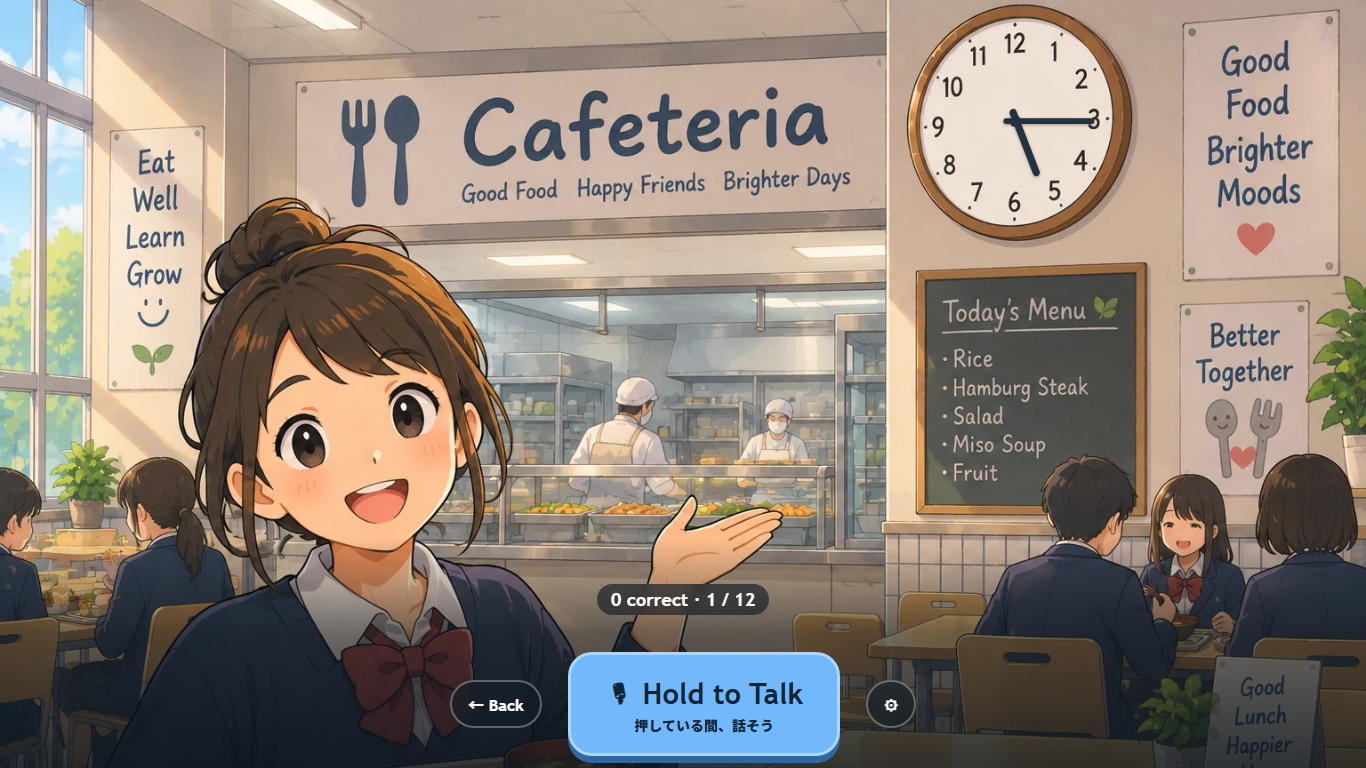
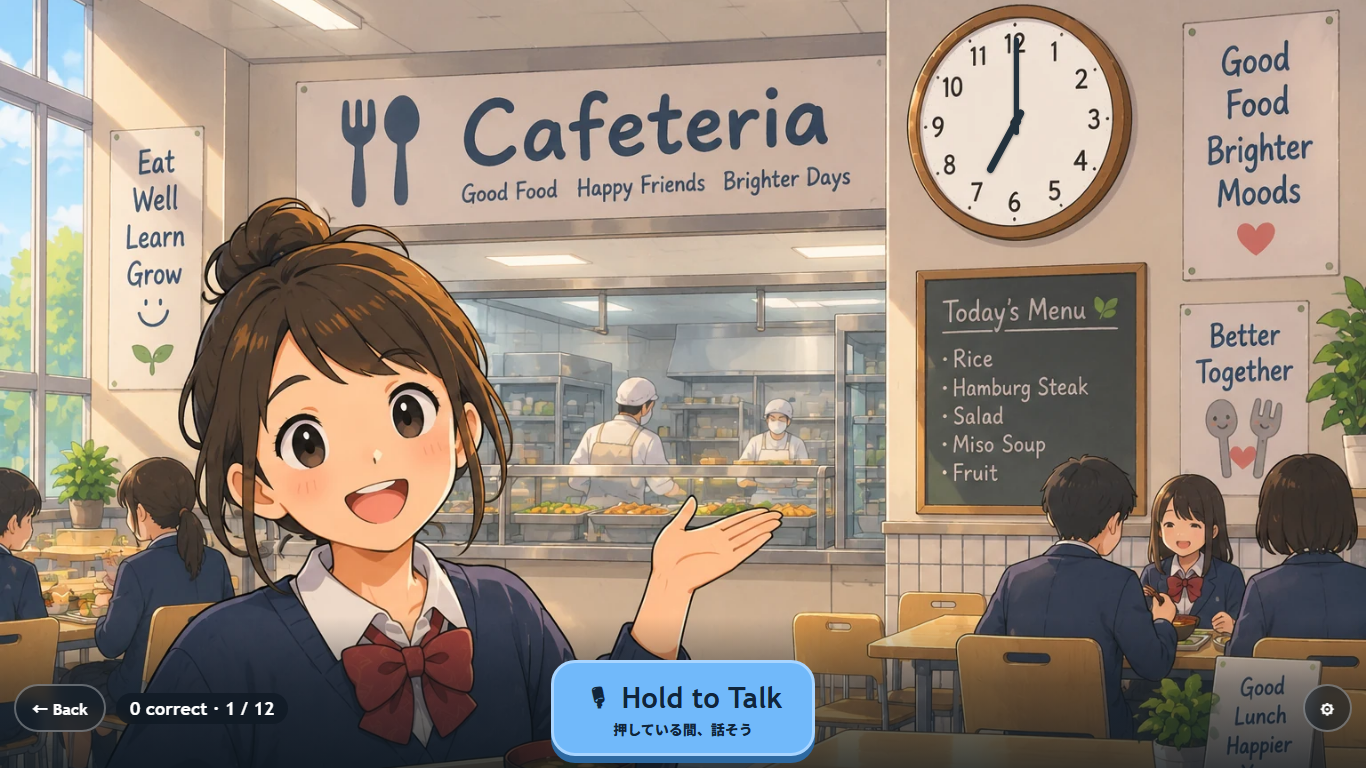
Shrink the floating dock so the picture dominates
The dock had grown to 230px, 30% of a 768px screen and up to 46% on a short
window, which made the artwork read as a thin strip under a heavy bar. It is
now one slim row: Back and the round counter share the left, Hold to Talk is
centred, Settings sits right, feedback above. 230px down to ~150px, and the
short-landscape rule no longer adds padding larger than the base.

Also fixes a real regression from the previous commit: Back and Settings had
been placed inside #speech-controls, which _useTypedFallback() hides wholesale,
so both buttons vanished for anyone without a working microphone. They now sit
outside it and survive the fallback.

Changed region(s): [[0.0, 0.7188, 1.0, 1.0], [0.7072, 0.0625, 0.7994, 0.2188]]

diff --git a/styles/main.css b/styles/main.css
@@ -173,6 +173,9 @@ h1, h2 { margin: 0; font-size: clamp(36px, 6vw, 68px); line-height: 1; }
 /* Floats on the picture. A gradient scrim rather than a solid band keeps the
    artwork running to the bottom edge while white text stays readable over
    whatever the scene happens to be. */
+/* Kept deliberately shallow. It floats ON the artwork, so every pixel it takes
+   is a pixel of picture hidden — one row of controls, a feedback line, and
+   nothing else. */
 .answer-dock {
   position: absolute;
   z-index: 5;
@@ -181,37 +184,41 @@ h1, h2 { margin: 0; font-size: clamp(36px, 6vw, 68px); line-height: 1; }
   left: 0;
   display: grid;
   justify-items: center;
-  gap: 4px;
-  padding: 46px 16px max(12px, env(safe-area-inset-bottom));
-  background: linear-gradient(to bottom, rgba(11, 20, 28, 0) 0%, rgba(11, 20, 28, .58) 42%, rgba(11, 20, 28, .84) 100%);
+  gap: 5px;
+  padding: 12px max(14px, env(safe-area-inset-left)) max(12px, env(safe-area-inset-bottom));
+  background: linear-gradient(to bottom, rgba(11, 20, 28, 0) 0%, rgba(11, 20, 28, .5) 45%, rgba(11, 20, 28, .8) 100%);
   pointer-events: none;
 }
 .answer-dock > * { pointer-events: auto; }
 
-.feedback-line { min-height: 29px; color: white; font-size: clamp(18px, 2.4vw, 27px); font-weight: 800; text-align: center; text-shadow: 0 2px 6px rgba(0,0,0,.65); }
-.feedback-line.is-correct { color: #7af0b4; }
-.feedback-line.is-reveal { color: #ffd38c; }
-
-/* Back and Settings flank the hold control so the whole upper picture, where
-   every clock is, stays clear. */
-.speech-controls {
+/* Back and the round counter share the left, Settings the right, so the hold
+   control stays centred without needing rows of its own. */
+.dock-row {
   display: flex;
   align-items: center;
-  justify-content: center;
-  gap: clamp(10px, 2vw, 26px);
+  gap: clamp(8px, 1.6vw, 20px);
   width: 100%;
   pointer-events: none;
 }
-.speech-controls > * { pointer-events: auto; }
+.dock-row > * { pointer-events: auto; }
+.dock-side { display: flex; flex: 1 1 0; align-items: center; gap: 10px; min-width: 0; }
+.dock-side-end { justify-content: flex-end; }
+.dock-center { flex: 0 1 auto; }
+
+.feedback-line { min-height: 26px; color: white; font-size: clamp(17px, 2.2vw, 25px); font-weight: 800; text-align: center; text-shadow: 0 2px 6px rgba(0,0,0,.7); }
+.feedback-line.is-correct { color: #7af0b4; }
+.feedback-line.is-reveal { color: #ffd38c; }
+
+.speech-controls { display: flex; align-items: center; justify-content: center; }
 .hold-button {
   position: relative;
   display: flex;
   flex-direction: column;
   align-items: center;
   justify-content: center;
-  min-width: 260px;
-  min-height: 104px;
-  padding: 14px 34px;
+  min-width: 240px;
+  min-height: 96px;
+  padding: 12px 30px;
   touch-action: none;
   user-select: none;
   -webkit-user-select: none;
@@ -311,8 +318,9 @@ h1, h2 { margin: 0; font-size: clamp(36px, 6vw, 68px); line-height: 1; }
   .title-plate { gap: 12px; padding: 20px 30px; }
   .start-button { min-height: 84px; }
   .top-button { min-height: 44px; }
-  .hold-button { min-height: 96px; }
-  .answer-dock { padding-top: 34px; }
+  .hold-button { min-height: 96px; padding-block: 8px; }
+  .answer-dock { gap: 3px; padding-top: 8px; }
+  .feedback-line { min-height: 22px; }
   .settings-panel { margin: 0 auto; }
   .setting-row { padding-block: 9px; }
 }

diff --git a/index.html b/index.html
@@ -26,23 +26,31 @@
       <main id="stage" class="stage" aria-label="Scene"></main>
 
       <div class="answer-dock">
-        <div id="game-progress" class="round-progress" aria-live="polite">0 correct · 1 / 12</div>
         <div class="feedback-line" id="feedback" aria-live="polite"></div>
-        <div id="speech-controls" class="speech-controls">
-          <button id="game-back" class="top-button" type="button">← Back</button>
-          <button id="hold-to-talk" class="hold-button" type="button">
-            <span class="hold-main">🎙 Hold to Talk</span>
-            <span class="hold-help">押している間、話そう</span>
-          </button>
-          <button id="game-settings" class="top-button" type="button" aria-label="Settings">⚙</button>
-        </div>
-        <form id="typed-form" class="typed-form" hidden>
-          <label for="typed-answer">Type the time you would say</label>
-          <div class="typed-row">
-            <input id="typed-answer" type="text" inputmode="text" autocomplete="off" spellcheck="false">
-            <button class="button button-primary" type="submit">Check</button>
+        <div class="dock-row">
+          <div class="dock-side">
+            <button id="game-back" class="top-button" type="button">← Back</button>
+            <div id="game-progress" class="round-progress" aria-live="polite">0 correct · 1 / 12</div>
           </div>
-        </form>
+          <div class="dock-center">
+            <div id="speech-controls" class="speech-controls">
+              <button id="hold-to-talk" class="hold-button" type="button">
+                <span class="hold-main">🎙 Hold to Talk</span>
+                <span class="hold-help">押している間、話そう</span>
+              </button>
+            </div>
+            <form id="typed-form" class="typed-form" hidden>
+              <label for="typed-answer">Type the time you would say</label>
+              <div class="typed-row">
+                <input id="typed-answer" type="text" inputmode="text" autocomplete="off" spellcheck="false">
+                <button class="button button-primary" type="submit">Check</button>
+              </div>
+            </form>
+          </div>
+          <div class="dock-side dock-side-end">
+            <button id="game-settings" class="top-button" type="button" aria-label="Settings">⚙</button>
+          </div>
+        </div>
         <p id="fallback-message" class="fallback-message" hidden>
           Speech recognition is unavailable. Type your answer instead.
         </p>

diff --git a/SPEC.md b/SPEC.md
@@ -372,9 +372,14 @@ difficulty never starts a round; `もどる` returns to the title, top and botto
 
 - The scene fills the whole screen; the clock reads as an object inside the
   room, not a floating quiz card.
-- Controls sit directly on the artwork over a gradient scrim, all along the
-  bottom edge: Back, round counter, Hold to Talk, Settings. Nothing is placed
-  over the upper picture, where every painted clock is.
+- Controls sit directly on the artwork over a gradient scrim, in ONE slim row
+  along the bottom edge: Back and the round counter on the left, Hold to Talk
+  centred, Settings on the right, with the feedback line just above. Nothing is
+  placed over the upper picture, where every painted clock is.
+- That dock floats on the picture, so its height is picture hidden: keep it
+  near 150 px and never give it rows it does not need. Back, the counter and
+  Settings must live OUTSIDE `#speech-controls`, which is hidden wholesale by
+  the typed fallback.
 - Bottom-centre: one large "🎙 Hold to Talk" button, minimum 96 px tall and
   240 px wide, with Japanese helper text beneath: 押している間、話そう.
   While held it reads "Listening…".
